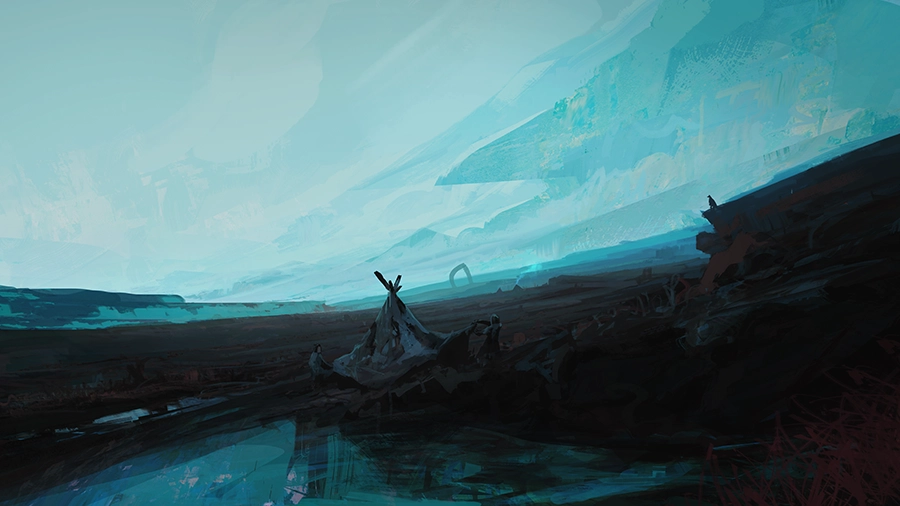
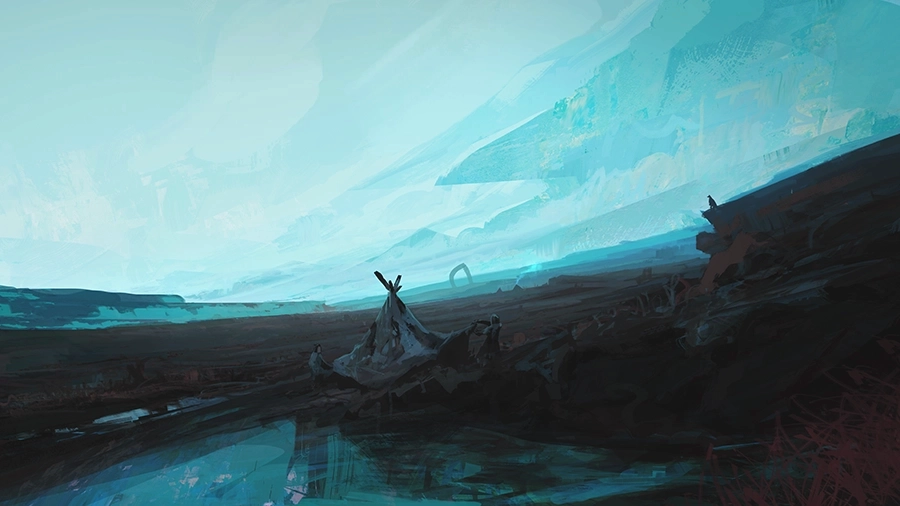
docs: add image

diff --git a/locations.js b/locations.js
@@ -23,8 +23,8 @@ window.features = [
   new ol.Feature({
     geometry: new ol.geom.Point([5075, 2585]),
     name: 'Древо Духов',
-    preview: '',
-    image: '',
+    preview: 'images/preview23.webp',
+    image: 'images/big23.webp',
     description: 'Рядом с Юлой растёт на удивление массивное дерево. По легенде, именно под ним отдыхал первый шаман Отх, когда с ним впервые заговорили духи. Жители Равнины и сейчас могут пообщаться с хранителями этого места. Духи просят путников рассказать им историю, которую они ещё не слышали.',
     url: '',
     icon: 'icon/mesto.webp'
@@ -205,8 +205,8 @@ window.features = [
   new ol.Feature({
     geometry: new ol.geom.Point([7890, 910]),
     name: 'Конец реки',
-    preview: '',
-    image: '',
+    preview: 'images/preview25.webp',
+    image: 'images/big25.webp',
     description: 'Й-отон на юге разливается в несколько рукавов, а потом уходит под землю. Шаманы говорят, что Матерь Всех Вод совершает путешествие, подобное путешествиям шаманов. Выходя в горах из мира духов, спускается на Равнину, странствует по ней, а после снова возвращается в мир духов, бесследно исчезая в в земле. В конце реки располагается маленький менгир, важное место для инициации молодых шаманов.',
     url: '',
     icon: 'icon/mesto.webp'
@@ -223,8 +223,8 @@ window.features = [
   new ol.Feature({
     geometry: new ol.geom.Point([4100, 3800]),
     name: 'Волчий лес',
-    preview: '',
-    image: '',
+    preview: 'images/preview24.webp',
+    image: 'images/big24.webp',
     description: 'Лес, где, по преданиям, часто промышляет Хозяин Охоты вместе со своей стаей волков. Излюбленный участок для охоты на хищников, место инициации охотников Хадр.',
     url: '',
     icon: 'icon/ozero.webp'

diff --git a/service-worker.js b/service-worker.js
@@ -1,4 +1,4 @@
-const CACHE_NAME = 'local-map-cache-v1.99';//поменять версию при обновлении, чтобы старый кеш обновился автоматически
+const CACHE_NAME = 'local-map-cache-v1.991';//поменять версию при обновлении, чтобы старый кеш обновился автоматически
 
 // Немедленная активация без ожидания
 self.addEventListener('install', e => {

diff --git a/index.html b/index.html
@@ -90,7 +90,7 @@
 <script src="Interface/ui-handlers.js?v=9.1"></script>
 
 <!-- Основной скрипт -->
-<script src="script.js?v=9.45"></script>
+<script src="script.js?v=9.48"></script>
 
 <script>
 if ('serviceWorker' in navigator) {
